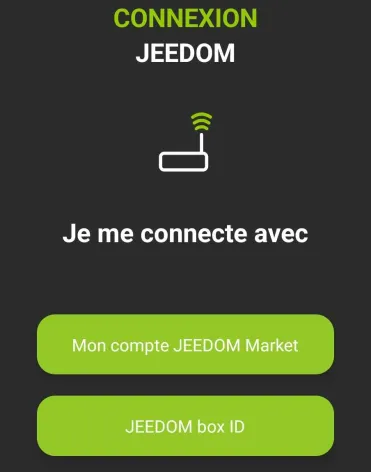
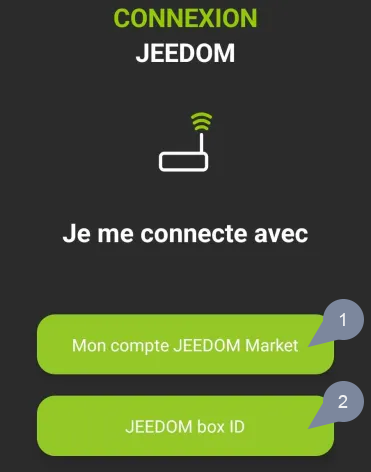
update

Changed region(s): [[0.8302, 0.8008, 0.9784, 0.9195], [0.8302, 0.6229, 0.9784, 0.7415]]

diff --git a/fr_FR/docs/index.md b/fr_FR/docs/index.md
@@ -14,22 +14,23 @@ Après installation du plugin, il vous suffit de l’activer :
 
 Pour connecter votre téléphone, il y a 2 méthodes possible.
 
-<b>Méthode 1</b> : Sur le premier écran de l'application, il vous est proposé de connecter votre compte Market, et ainsi retrouver toutes les Boxs associées à ce compte.<br>
-<b>Méthode 2</b> : Simplement ajouter une Box.
-
-
+<img src="./images/v2firstConnect.png" alt="v2firstConnect" width="40%" />
 
 #### **Méthode 1 : CONNEXION VIA LE COMPTE MARKET**
 
-<img src="./images/v2firstConnect.png" alt="v2firstConnect" width="50%">
+   <img src="./images/v2connectMarket.png" alt="v2connectMarket" width="40%" />
 
-Il vous faut simplement rentrer votre identifiant Market ainsi que votre mot de passe.
+Cette méthode permer de synchroniser, en une seule fois, toutes vos box sur l'application.<br>
+Elle nécessite donc de vous identifier dans un premier temps a votre compte market.<br>
+Il vous faut simplement entrer votre identifiant Market ainsi que votre mot de passe.<br>
+Après avoir cliqué sur "Commencer" vous aurez accès a toutes les box de votre compte Market, et ainsi vous connecter par utilisateur / mot de passe ou par Qrcode.<br>
+
+> **Info**
+> 
+> 
+
 
 #### **Méthode 2 : CONNEXION VIA Box ID**
-
-<img src="./images/v22methods.png" alt="v22methods" width="50%">
-
-![v22methods](./images/v22methods.jpeg)
 
 Plusieurs choix sur cet écran :
 
@@ -37,7 +38,7 @@ Plusieurs choix sur cet écran :
 
 - Vous cliquez sur QR Code : un nouvel écran apparait; vous pourrez scanner un QR Code depuis le plugin Mobile de la Box que vous souhaitez ajoutée, via l'onglet QR Code du plugin.
 
-![v2ModalQrApp](./images/v2QRCodeConnect.PNG)
+  ![v2ModalQrApp](./images/v2QRCodeConnect.PNG)
 
 > Onglet QR Code du plugin Mobile
 
